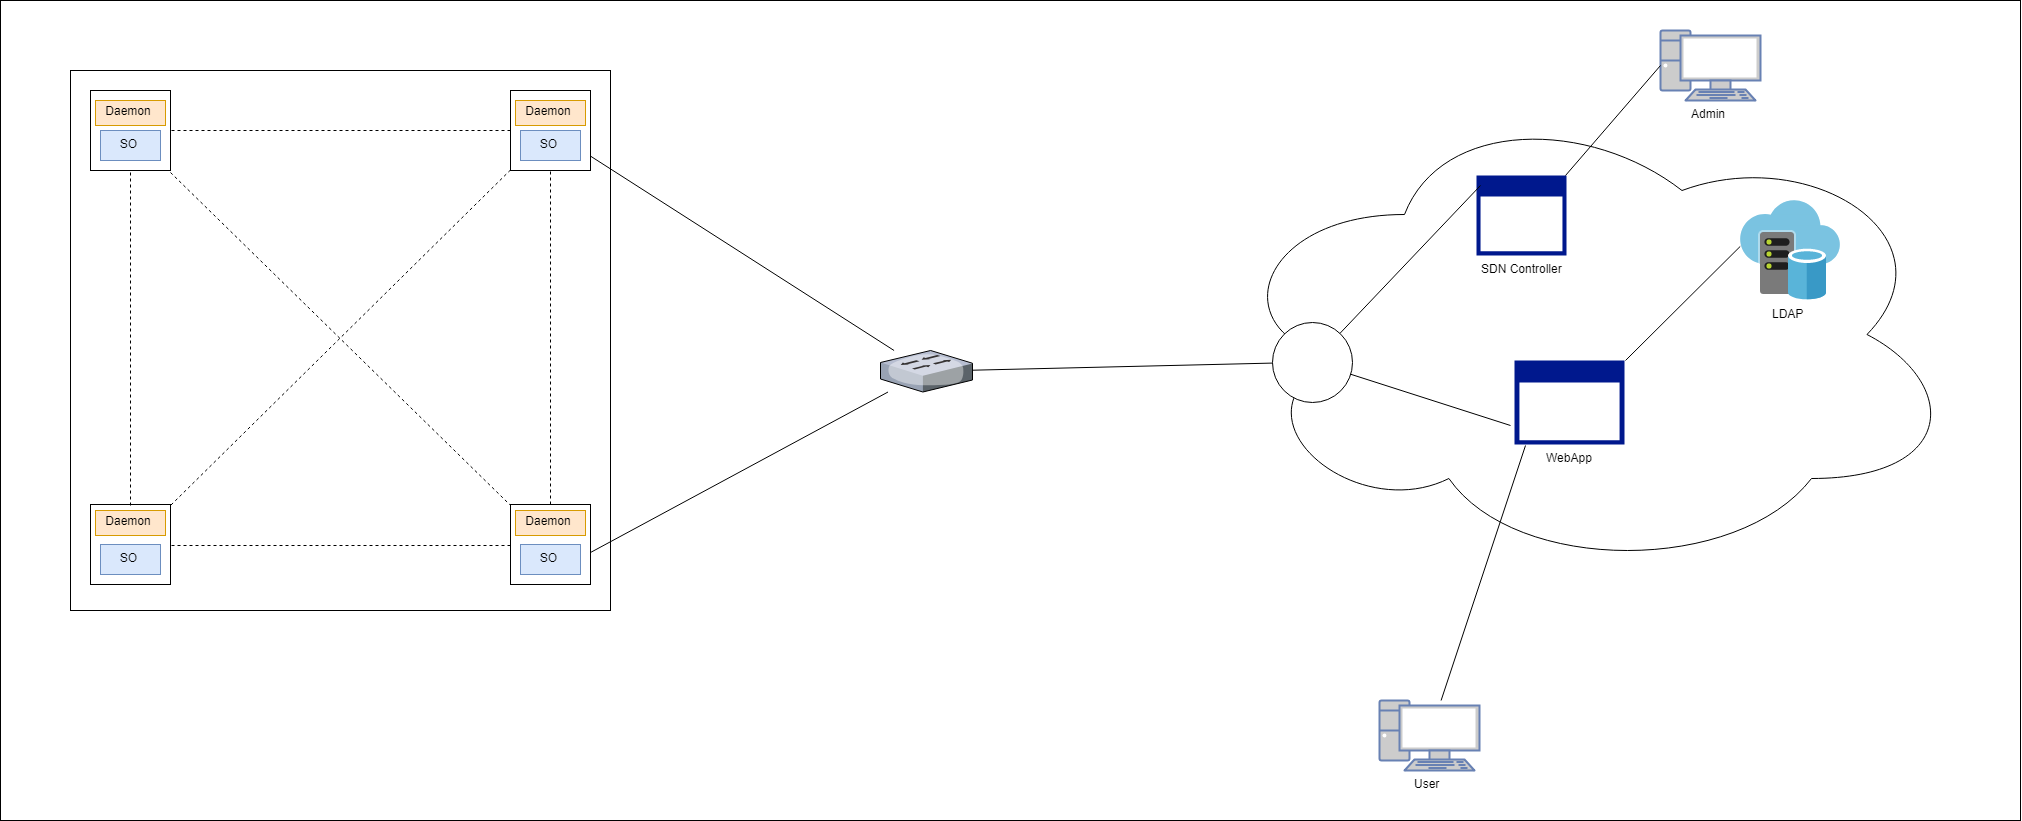
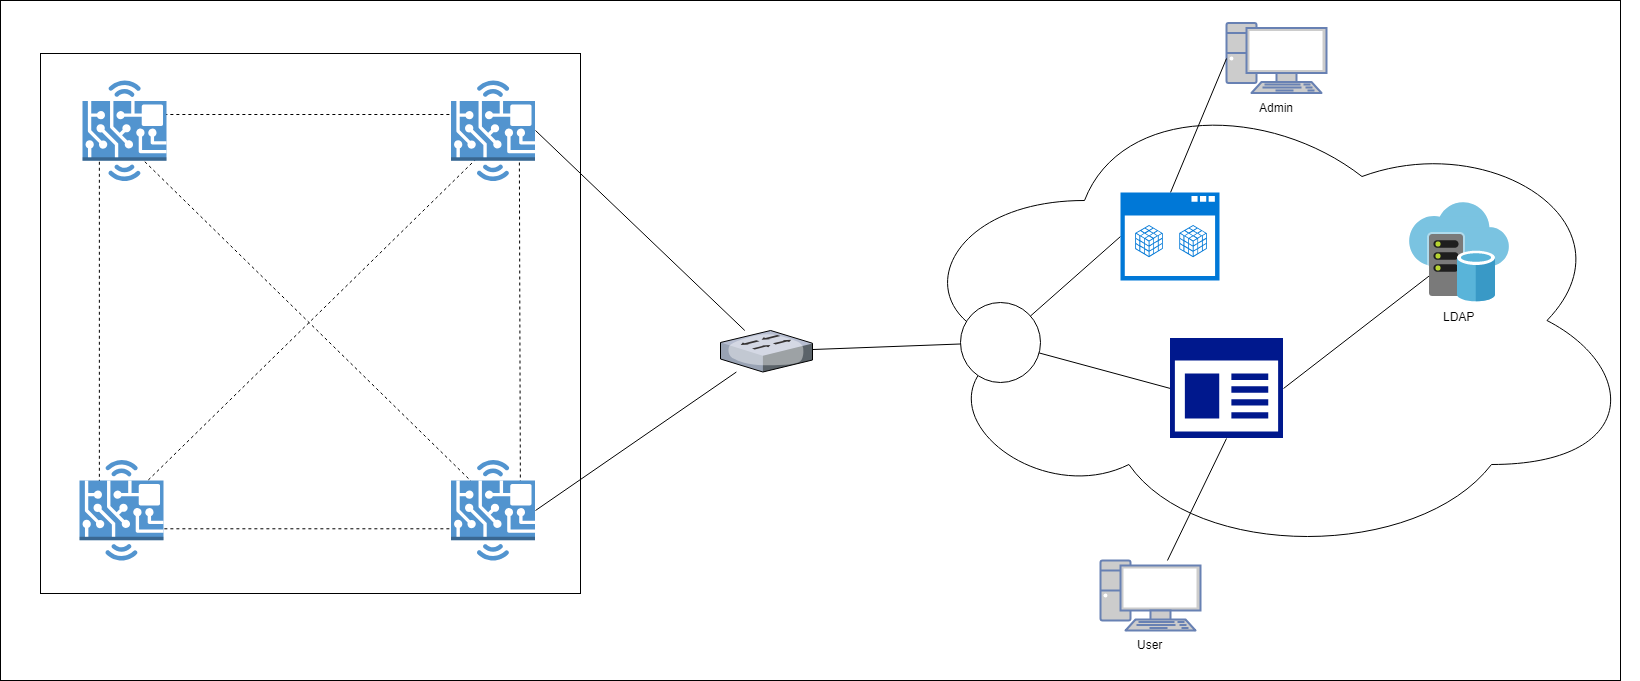
added architecture of system

diff --git a/AMazING/architecture.html b/AMazING/architecture.html
@@ -73,11 +73,15 @@
 							<li class="has-dropdown">
 								<a href="#">Vision and Scenarios</a>
 								<ul class="dropdown">
-									<li><a href="vision.html">Vision</a></li>
 									<li><a href="scenarios.html">Personas, Goals & Scenarios</a></li>
 								</ul>
 							</li>
-							<li><a href="architecture.html">Architecture</a></li>
+							<li class="has-dropdown">
+								<a href="#">Architecture</a>
+								<ul class="dropdown">
+									<li><a href="architecture.html">Architecture, Technical Requirements & Manual</a></li>
+								</ul>
+							</li>
 							<li><a href="logbook.html">LogBook</a></li>
 							<li class="active"><a href="about.html">About</a></li>
 						</ul>
@@ -107,6 +111,9 @@
 							<li class="md-nav__item">
 								<a href="#Technical" title="Log" class="md-nav__link"style="color:#6495ED">Technical Requirements</a>
 							</li>
+							<li class="md-nav__item">
+								<a href="#Manual" title="Log" class="md-nav__link"style="color:#6495ED">Manual</a>
+							</li>
 						</u>
 					
 				</nav>
@@ -118,13 +125,82 @@
 				<div class="row row-pb-sm">
 					<div class="col-md-8 col-md-offset-2 gtco-heading text-center">
 						<h2 id="Architecture">Architecture</h2>
-						<p> ###</p>
+							<br>
+							<div class="text-left">
+								<h4>Client Application</img></h4>
+							</div>
+							<table>
+								<tr>
+								<td style="padding-right:50px"><img src="images/appclient.png" style="width:70px" alt=""></td>
+								<td>A simple interface on clients PC to configure nodes.</td> 
+								</tr>
+							</table>
+							<br>
+							<br>
+							<div class="text-left">
+								<h4>Switch</img></h4>
+							</div>
+							<table>
+								<tr>
+								<td style="padding-right:50px"><img src="images/switch.png" style="width:70px" alt=""></td>
+								<td>A switch supporting SDN.</td> 
+								</tr>
+							</table>
+							<br>
+							<br>
+							<div class="text-left">
+								<h4>Switch Controller</img></h4>
+							</div>
+							<table>
+								<tr>
+								<td style="padding-right:50px"><img src="images/app.png" style="width:70px" alt=""></td>
+								<td>A interface that allows admin to enable or disable switch ports.</td> 
+								</tr>
+							</table>
+							<br>
+							<br>
+							<div class="text-left">
+								<h4>Node</img></h4>
+							</div>
+							<table>
+								<tr>
+								<td style="padding-right:50px"><img src="images/node.png" style="width:70px" alt=""></td>
+								<td>Piece of equipment based on an APU Board.</td> 
+								</tr>
+							</table>
+							<br>
+							<br>
+							<div class="text-left">
+								<h4>Daemon</img></h4>
+							</div>
+							<table>
+								<tr>
+								<td style="padding-right:50px"><img src="images/daemon.png" style="width:70px" alt=""></td>
+								<td>Software running in the background of the node OS(Operating System).</td> 
+								</tr>
+							</table>
+						
+						<br>
+						<br>
+						<br>
+									
+						<h3 style="padding-left:135px"> System overall architecture</h3>
+							<img style="width:120%" src="images/architecture.png"  alt="">
+							
+						
 					</div>
 				</div>
 				
 				<div class="row row-pb-sm">
 					<div class="col-md-8 col-md-offset-2 gtco-heading text-center">
 						<h2 id="Technical">Technical Requirements</h2>
+						<p> ###</p>
+					</div>
+				</div>
+				
+				<div class="row row-pb-sm">
+					<div class="col-md-8 col-md-offset-2 gtco-heading text-center">
+						<h2 id="Technical">Manual</h2>
 						<p> ###</p>
 					</div>
 				</div>

diff --git a/AMazING/scenarios.html b/AMazING/scenarios.html
@@ -73,11 +73,15 @@
 							<li class="has-dropdown">
 								<a href="#">Vision and Scenarios</a>
 								<ul class="dropdown">
-									<li><a href="vision.html">Vision</a></li>
 									<li><a href="scenarios.html">Personas, Goals & Scenarios</a></li>
 								</ul>
 							</li>
-							<li><a href="architecture.html">Architecture</a></li>
+							<li class="has-dropdown">
+								<a href="#">Architecture</a>
+								<ul class="dropdown">
+									<li><a href="architecture.html">Architecture, Technical Requirements & Manual</a></li>
+								</ul>
+							</li>
 							<li><a href="logbook.html">LogBook</a></li>
 							<li class="active"><a href="about.html">About</a></li>
 						</ul>
@@ -168,7 +172,6 @@
 				<div class="row row-pb-sm">
 					<div class="col-md-8 col-md-offset-2 gtco-heading text-center">
 						<h2 id="Goals">Goals</h2>
-						<p>Lorem ipsum dolor sit amet, consectetur adipiscing elit. Phasellus placerat enim et urna sagittis, rhoncus euismod erat tincidunt. Donec tincidunt volutpat erat.</p>
 					</div>
 				</div>
 				<div class="row row-pb-md">

diff --git a/AMazING/about.html b/AMazING/about.html
@@ -74,11 +74,15 @@
 							<li class="has-dropdown">
 								<a href="#">Vision and Scenarios</a>
 								<ul class="dropdown">
-									<li><a href="vision.html">Vision</a></li>
 									<li><a href="scenarios.html">Personas, Goals & Scenarios</a></li>
 								</ul>
 							</li>
-							<li><a href="architecture.html">Architecture</a></li>
+							<li class="has-dropdown">
+								<a href="#">Architecture</a>
+								<ul class="dropdown">
+									<li><a href="architecture.html">Architecture, Technical Requirements & Manual</a></li>
+								</ul>
+							</li>
 							<li><a href="logbook.html">LogBook</a></li>
 							<li class="active"><a href="about.html">About</a></li>
 						</ul>

diff --git a/AMazING/client.html b/AMazING/client.html
@@ -73,11 +73,15 @@
 							<li class="has-dropdown">
 								<a href="#">Vision and Scenarios</a>
 								<ul class="dropdown">
-									<li><a href="vision.html">Vision</a></li>
 									<li><a href="scenarios.html">Personas, Goals & Scenarios</a></li>
 								</ul>
 							</li>
-							<li><a href="architecture.html">Architecture</a></li>
+							<li class="has-dropdown">
+								<a href="#">Architecture</a>
+								<ul class="dropdown">
+									<li><a href="architecture.html">Architecture, Technical Requirements & Manual</a></li>
+								</ul>
+							</li>
 							<li><a href="logbook.html">LogBook</a></li>
 							<li class="active"><a href="about.html">About</a></li>
 						</ul>

diff --git a/AMazING/index.html b/AMazING/index.html
@@ -74,11 +74,15 @@
 							<li class="has-dropdown">
 								<a href="#">Vision and Scenarios</a>
 								<ul class="dropdown">
-									<li><a href="vision.html">Vision</a></li>
 									<li><a href="scenarios.html">Personas, Goals & Scenarios</a></li>
 								</ul>
 							</li>
-							<li><a href="architecture.html">Architecture</a></li>
+							<li class="has-dropdown">
+								<a href="#">Architecture</a>
+								<ul class="dropdown">
+									<li><a href="architecture.html">Architecture, Technical Requirements & Manual</a></li>
+								</ul>
+							</li>
 							<li><a href="logbook.html">LogBook</a></li>
 							<li class="active"><a href="about.html">About</a></li>
 						</ul>

diff --git a/AMazING/logbook.html b/AMazING/logbook.html
@@ -73,11 +73,15 @@
 							<li class="has-dropdown">
 								<a href="#">Vision and Scenarios</a>
 								<ul class="dropdown">
-									<li><a href="vision.html">Vision</a></li>
 									<li><a href="scenarios.html">Personas, Goals & Scenarios</a></li>
 								</ul>
 							</li>
-							<li><a href="architecture.html">Architecture</a></li>
+							<li class="has-dropdown">
+								<a href="#">Architecture</a>
+								<ul class="dropdown">
+									<li><a href="architecture.html">Architecture, Technical Requirements & Manual</a></li>
+								</ul>
+							</li>
 							<li><a href="logbook.html">LogBook</a></li>
 							<li class="active"><a href="about.html">About</a></li>
 						</ul>
